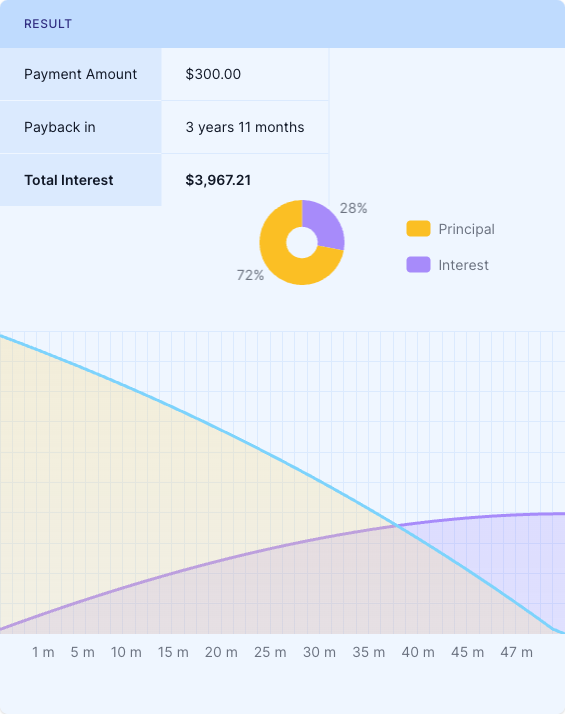
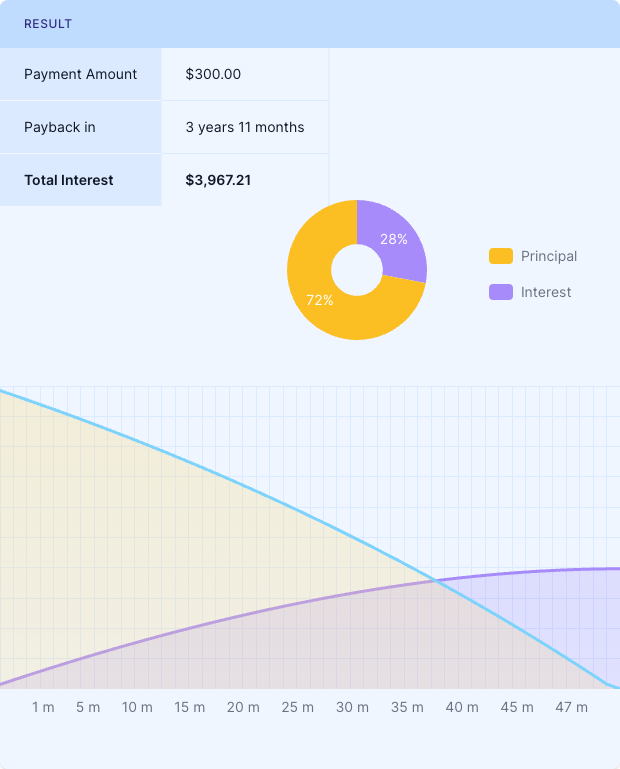
calculator changes commit

diff --git a/assets/js/chart.js b/assets/js/chart.js
@@ -86,18 +86,12 @@ import("./assets/js/lib/chartjs/chart.js").then((e) => {
 
 			data.datasets[0].data.forEach((datapoint, index) => {
 				const { x, y } = chart.getDatasetMeta(0).data[index].tooltipPosition();
-
-				let textXPosition = x >= 77 ? 'left' : 'right';
-
-				let xLine = x >= 77 ? x + 15 : x - 15;
-				let yLine = y >= 77 ? y + 15 : y - 15;
-
+				ctx.textAlign = 'center';
 				ctx.font = '14px Inter';
-				ctx.textAlign = textXPosition;
-				ctx.fillStyle = colors[theme].textColor;
+				ctx.fillStyle = '#fff';
 				ctx.textBaseline = 'middle';
-
-				ctx.fillText(`${datapoint}%`, xLine, yLine);
+				let toolTipText = datapoint != '0' ? datapoint + '%' : '';
+				ctx.fillText(toolTipText, x, y);
 			});
 		},
 	};
@@ -126,18 +120,12 @@ import("./assets/js/lib/chartjs/chart.js").then((e) => {
 
 				data.datasets[0].data.forEach((datapoint, index) => {
 					const { x, y } = chart.getDatasetMeta(0).data[index].tooltipPosition();
-
-					let textXPosition = x >= 77 ? 'left' : 'right';
-
-					let xLine = x >= 77 ? x + 15 : x - 15;
-					let yLine = y >= 77 ? y + 15 : y - 15;
-
+					ctx.textAlign = 'center';
 					ctx.font = '14px Inter';
-					ctx.textAlign = textXPosition;
-					ctx.fillStyle = colors[theme].textColor;
+					ctx.fillStyle = '#fff';
 					ctx.textBaseline = 'middle';
-
-					ctx.fillText(`${datapoint}%`, xLine, yLine);
+					let toolTipText = datapoint != '0' ? datapoint + '%' : '';
+					ctx.fillText(toolTipText, x, y);
 				});
 			},
 		};
@@ -470,7 +458,7 @@ import("./assets/js/lib/chartjs/chart.js").then((e) => {
 
 		chartLoanCard.data.datasets[0].backgroundColor = yellowGradient;
 		chartLoanCard.data.datasets[1].backgroundColor = purpleGradient;
-		chartLoanCard.data.datasets[0].borderColor = colors[theme].yellow;
+		chartLoanCard.data.datasets[0].borderColor = colors[theme].sky;
 		chartLoanCard.data.datasets[1].borderColor = colors[theme].purple;
 		chartLoanCard.options.scales.y.grid.color = colors[theme].gridColor;
 		chartLoanCard.options.scales.x.grid.color = colors[theme].gridColor;

diff --git a/assets/js/all-calculators.js b/assets/js/all-calculators.js
@@ -517,7 +517,7 @@ var allCalculators = [
     },
     {
         "title": "Work Hours Calculator",
-        "description": "Work hours calculator helps employees accurately calculate the number of hours worked each week with settings to account for breaks, hourly rounding, and military time. ",
+        "description": "Work hours calculator helps employees accurately calculate the number of hours worked each week with settings to account for breaks, hourly rounding, and military time.",
         "uri": "/work-hours-calculator/",
         "image": "../images/icon-96.png"
     },
@@ -528,7 +528,7 @@ var allCalculators = [
         "image": "../images/icon-96.png"
     },
     {
-        "title": "Fraction to percent calculator",
+        "title": "Fraction to Percent Calculator",
         "description": "Fraction to percent calculator converts proper and improper fractions to percentages. Calculator is using fraction-decimal-percent algorithm.",
         "uri": "/fraction-to-percent-calculator/",
         "image": "../images/icon-96.png"
@@ -723,6 +723,12 @@ var allCalculators = [
         "title": "Margin Calculator",
         "description": "Free margin calculator using the margin formula ((R - C) / R) × 100 to help businesses quickly calculate both margin and markup percentages based on cost and sale price.",
         "uri": "/margin-calculator/",
+        "image": "../images/icon-96.png"
+    },
+    {
+        "title": "Pace Calculator",
+        "description": "This free pace calculator computes pace, distance and time by setting values of two variables. You can use it for training purposes.",
+        "uri": "/pace-calculator/",
         "image": "../images/icon-96.png"
     },
     {

diff --git a/index.html b/index.html
@@ -156,7 +156,13 @@
         	</div>
         	<div class="col" id="error-list">
         	</div>
-        </div>        <span id="calculator_result"><div class="calculator-result col">
+        </div>        <span id="calculator_result"><style>
+    #chartDonutSmall {
+        max-width: 200px;
+        max-height: 200px;
+    }
+</style>
+<div class="calculator-result col">
 	<p class="table-cell table-cell--table-dark table-cell--only-title">Result</p>
 	<div class="row row--wrap">
 		<div class="result-table__wrapper">
@@ -180,8 +186,8 @@
 			</table>
 		</div>
 		<div class="chart-wrapper chart-wrapper--donut chart-wrapper--donut-row">
-			<canvas id="chartDonutSmall" class="chart chart--donut chart--donut-small" width="145px"
-					height="145px"></canvas>
+			<canvas id="chartDonutSmall" class="chart chart--donut chart--donut-small" width="200px"
+					height="200px"></canvas>
 			<div class="chart__donut-legend chart__donut-legend--col">
 				<div class="chart__donut-legend-item">
 					<div class="result-chart result-chart--yellow"></div>
